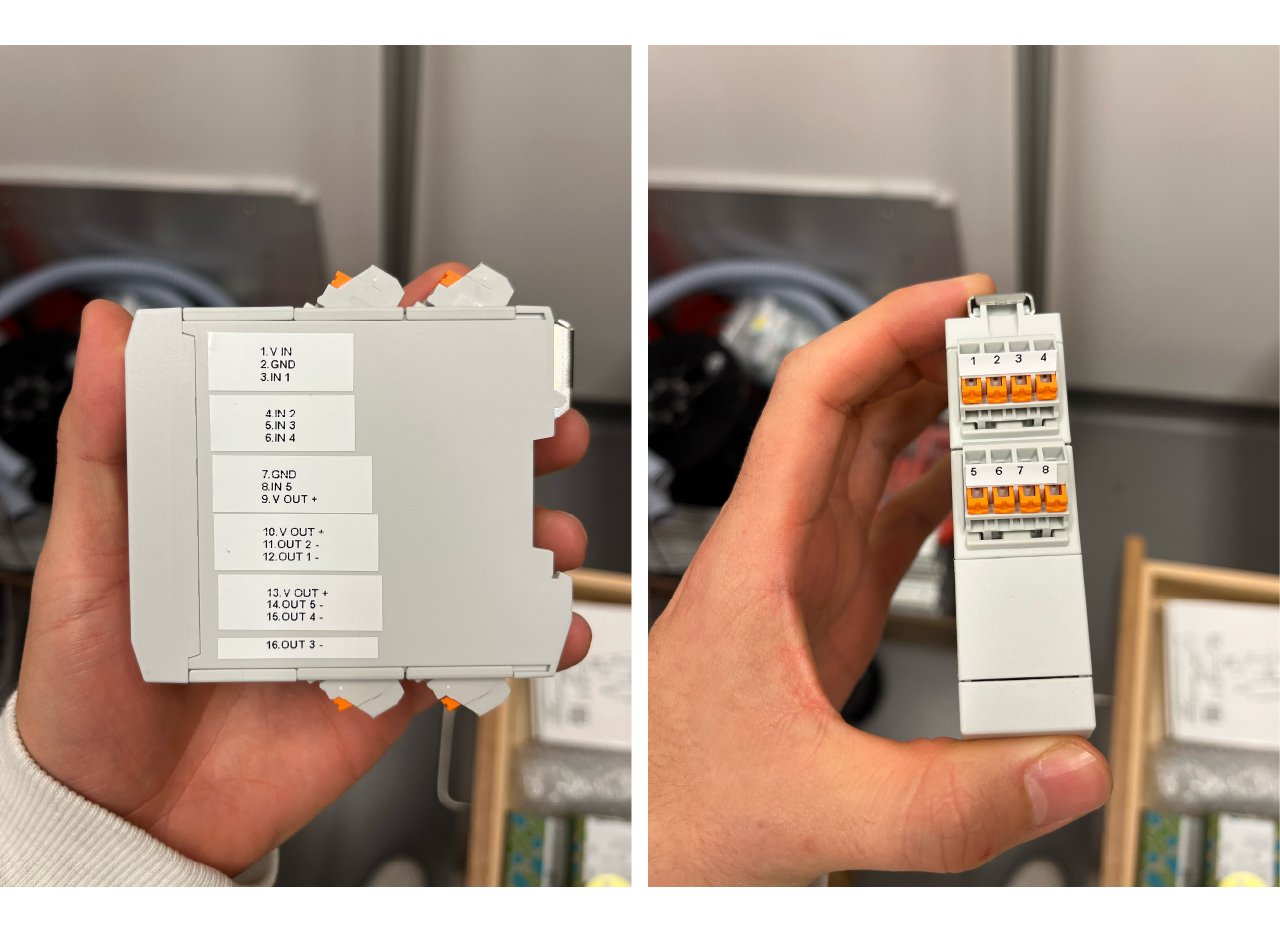
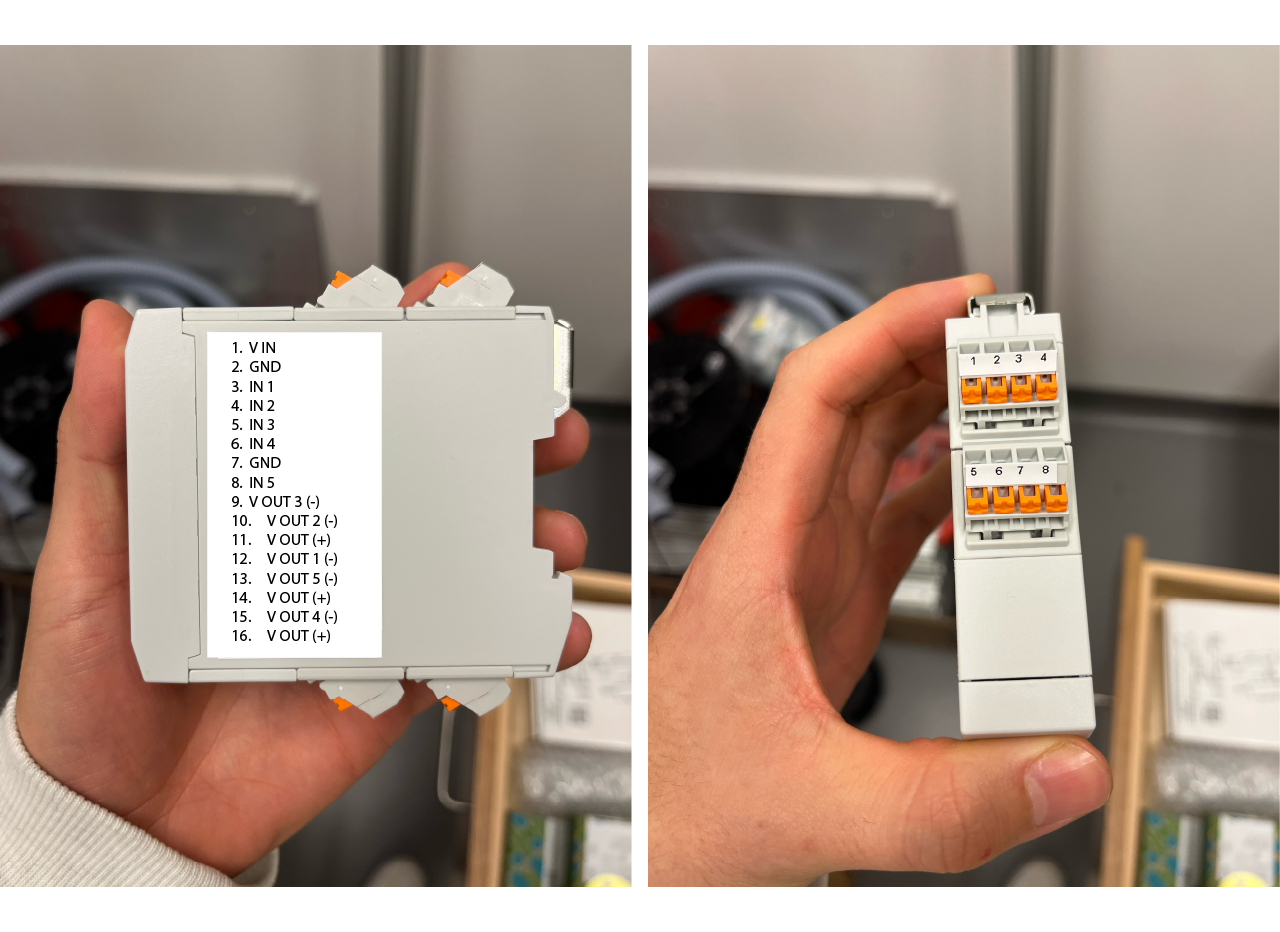
Finish control module assembly instructions

Changed region(s): [[0.1562, 0.3423, 0.3125, 0.7157]]

diff --git a/src/building/control.md b/src/building/control.md
@@ -85,22 +85,76 @@ We designed a simple solenoid valve driver circuit using a MOSFET, the gate is d
   <img src='./assets/images/control/control-assembly-12.png'>
 </figure>
 
+::: tip
+
+Use a standard PC power cable and cut the portion of the connector that goes to the PC, cut the ground cable and connect the neutral cable to the negative input of the power supply and the hot cable to the positive input.
+
+:::
+
 2. Open the NIDAQ case and make a hole at the middle of the back case. Screw the DIN rail mounting clip to it, then close the case and place the top screws only.
 
-3. Connect everything - power supply to solenoid valve driver, NIDAQ outputs to solenoid valve driver inputs, common to everyone, valves to solenoid valve driver outputs. Maybe make a diagram here.
+<figure>
+  <img src='./assets/images/control/control-assembly-13.png'>
+</figure>
+
+<figure>
+  <img src='./assets/images/control/control-assembly-14.png'>
+</figure>
+
+3. Connect everything!
+  * Start by connecting the positive output of the power supply from one of the pins of the red distribution blocks to the V IN input of the solenoid valve driver, then the ground from one of the pins of the black distribution block to the GND pin of the solenoid valve driver.
+  * Then connect the one of the GND pins of the solenoid valve driver to the the digital ground pin of the NIDAQ.
+  * Connect the solenoid valve driver inputs to the NIDAQ outputs as follows: P0.0 from NIDAQ to V IN 1, P0.1 to V IN 2 and P0.2 to V IN 3.
+  * Finally connect the solenoid valve driver outputs to the solenoid valve drivers. Since the solenoid valves doesn't have polarity, you should use the V OUT (+) as common in the valves, you can use one or multiple pins of the solenoid valve driver. Then connect the V OUT 1 (-) pin to the reward solenoid valve, the V OUT 2 (-) pin to the left solenoid valve and the V OUT 3 (-) to the right solenoid valve.
+
+::: tip
+
+The solenoid valve driver has more outputs for you to connect and control with the NIDAQ digital outputs any other piece of hardware (like a 24 V IR light source for example), just make sure to wire the ports to the input and output of the driver and match them in the Rig Parameters portion of ViRMEN.
+
+:::
+
+<figure>
+  <img src='./assets/images/control/control-assembly-15.png'>
+  <center><figcaption><small>Control module wiring diagram for solenoid valves.</small></figcaption></center>
+</figure>
 
 ## Arduino module assembly
 
-1. Have printed the arduino case and screw the arduino. Insert the connector in place and crimp the cables.
+1. Have printed the arduino case and screw the arduino. Insert the connector in place and crimp the cables. Make sure to follow the color code and connect the cables to the arduino.
 
-2. Make sure to follow the color code and connect the cables to the arduino.
+<figure>
+  <img src='./assets/images/control/control-assembly-16.png'>
+  <center><figcaption><small>Wiring diagram for Arduino due to connector.</small></figcaption></center>
+</figure>
 
 3. Cover the case and install the din rail mounting clip. Install the arduino module in the top DIN rail.
 
-4. Make the cable. Cut the cable and insert into the connector on one end. Connect it to the arduino, then insert the cable trough the hole and the cable carrier until it reached the cup, cut the cable and peel off the cover, install the connector on the other end and connect it to the cup.
+<figure>
+  <img src='./assets/images/control/control-assembly-17.png'>
+</figure>
+
+4. Make the cable to connect the arduino to the 3D printer cup. Unscrew the outer portion of the connector and insert it into the cable (you need to do this before connecting the cables, otherwise you will not be able to insert the cover and will have to do everything again). Unscrew all the conectors and insert the cable following the color code in the image below, screw them and place the connector cover.
+
+<figure>
+  <img src='./assets/images/control/control-assembly-18.png'>
+</figure>
+
+<figure>
+  <img src='./assets/images/control/control-assembly-19.png'>
+</figure>
+
+::: tip
+
+Place one connector first and connect it to the arduino box placed in the top DIN rail at the outer portion of the rig, then measure the lenght of the cable by inserting into the rig and into the cable carrier. Cut the cable and place the other connector, finally connect it to the 3D printed cup.
+
+:::
 
 ## USB HUB and Speaker
 
-1. Use double side tape to glue the USB Hub and connect everything that must be connected there.
+1. Use double side tape to glue the USB Hub to the cabinet at the top left portion above the DIN rail and connect everything that must be connected there (if using USB or USB powered speakers, the NIDAQ). Use a USB C extension to connect the hub to the computer.
 
-2. Place the speaker inside the cabinet and connect to Hub - Make an upper hole on the cabinet for other cables (?).
+<figure>
+  <img src='./assets/images/control/control-assembly-20.png'>
+</figure>
+
+2. Place the speaker inside the cabinet and connect to Hub - Make an upper hole on the cabinet for other cables as shown in the picture above. You can use a USB speakers or a desktop speakers and place them on top of the screen plate and connect it to the hub and, if necessary, to the computer audio input.
